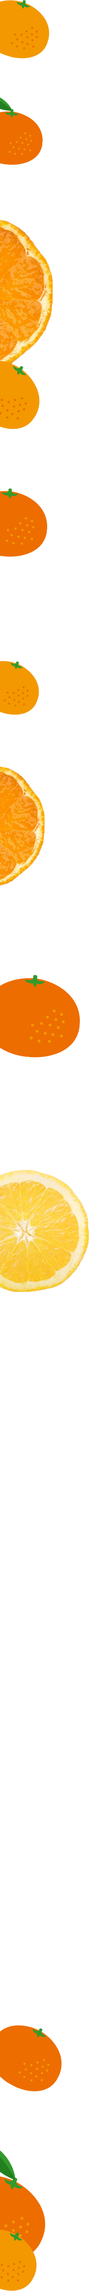
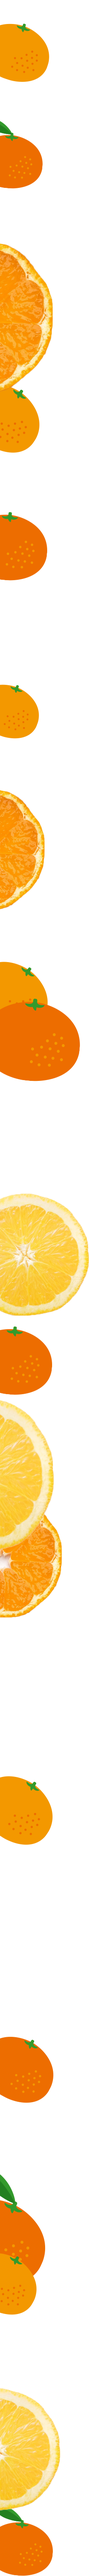
reset commit 20170103

diff --git a/css/style.css b/css/style.css
@@ -30,6 +30,7 @@
 .is-none{display: none!important;}
 .is-overflowHidden{overflow: hidden;}
 .is-height{height: 5708px!important;}
+
 /********************
   opennig
 ********************/
@@ -122,28 +123,24 @@ footer{
   opacity: 0;
 }
 /*左右に果物の画像を出すクラス*/
-.bgSide {
-  position:relative;
-  width:100%;
-}
-.bgSide::before{
-  position: absolute;
+/* .bgSide{
+  position: relative;
   content: '';
-  top: 100vh;
+  top: 0;
   left: 0;
   width:217px;
-  height: 5537px;
-  background:url('../images/main-bgLeft.png') no-repeat center center;
+  height: 5537px; 
+  background: url(../images/main-bgLeft.png)no-repeat center center;
 }
 .bgSide::after{
   position: absolute;
   content: '';
-  top: 100vh;
+  top: 0;
   right: 0;
   width:229px; 
-  height:5708px;
-  background:url('../images/main-bgRight.png') no-repeat center center;
-}
+  height: 5708px;
+  background: url(../images/main-bgRight.png)no-repeat center center;
+} */
 .font{
   font-family: "メイリオ","游ゴシック体", sans-serif;
 }
@@ -268,7 +265,6 @@ nav{display: none}
   background: url(../images/sec1-bg.jpg) no-repeat center center;
   width: 100%;
   height: 250px;
-  border-radius:20px;
 }
 #section1 .sec1Bt img{
   position: absolute;
@@ -538,8 +534,6 @@ border-left-color:#edab6a;
   flex-wrap: wrap;
   justify-content: space-around;
   margin-bottom:80px;
-  border-radius:20px;
-
 }
 #section5 .sec5Left,
 #section5 .sec5Right{
@@ -595,22 +589,6 @@ border-left-color:#edab6a;
 /********************
   #section6
 ********************/
-#section6 > p.txt {
-  position:relative;
-  font-weight:bold;
-  height:231px;
-}
-#section6 > p.txt::after {
-  content:'';
-  width:300px;
-  height:231px;
-  position:absolute;
-  top:0;
-  right:0;
-  background:url('../images/sec6-bg01.png') no-repeat center center;
-  background-size:contain;
-  background-position:center center;
-}
 #section6 .sec6-inner{
   position: relative;
   width: 100%;

diff --git a/index.html b/index.html
@@ -38,7 +38,6 @@
   </div>
 </header>
 <div class="top-bg"></div>
-<div class="bgSide">
 <article class="wrap">
   <nav>
     <ul>
@@ -195,7 +194,6 @@
     <!-- ご応募ボタン -->
 </section>
 </article>
-</div>
 </div> <!--content-->
 <!-- <footer><small class="txt">©2017 ORANGE×2 All Right Reserved.</small></footer> -->
 <footer><small class="txt">©2017 ORANGE×2 All Right Reserved.</small><br>
